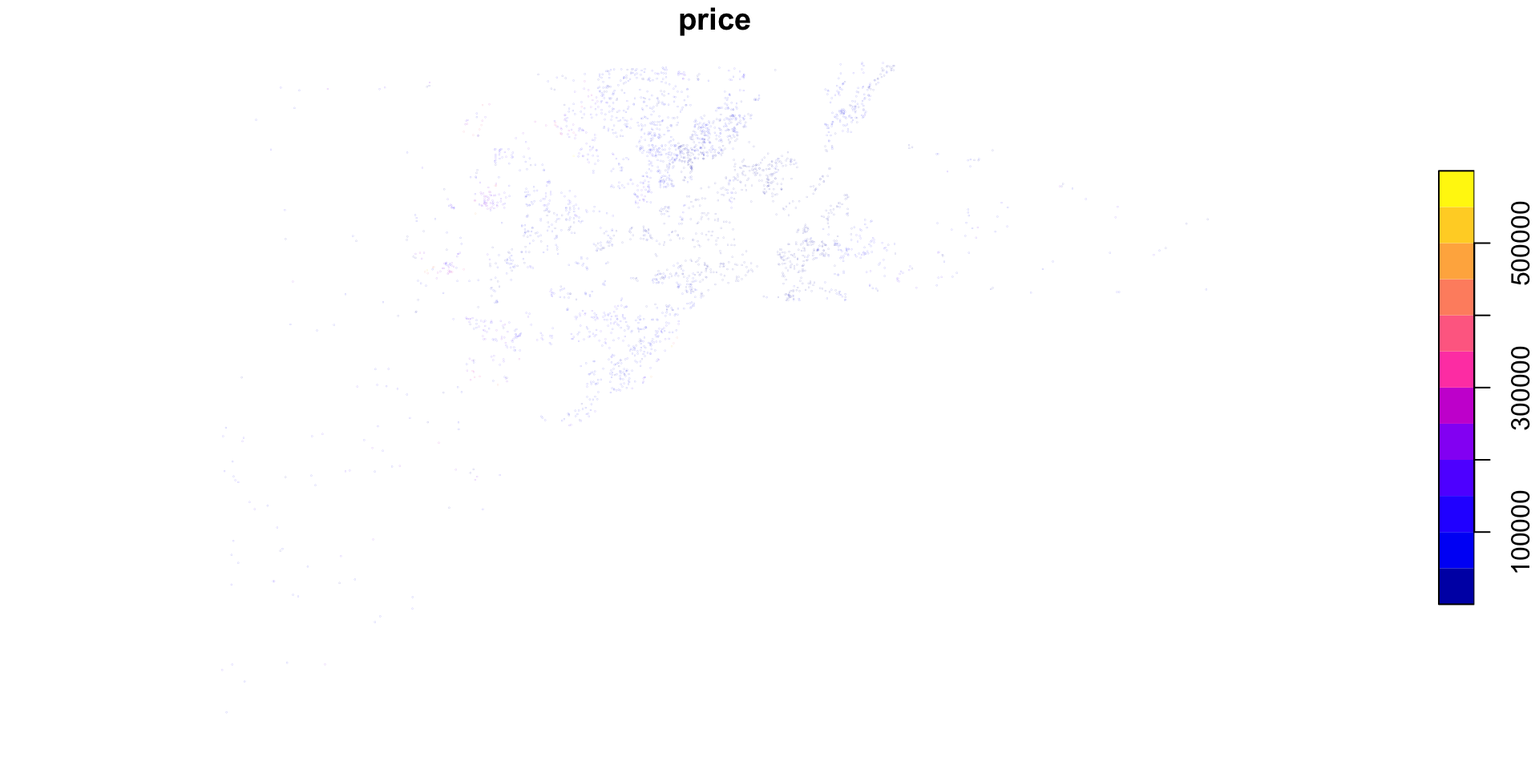
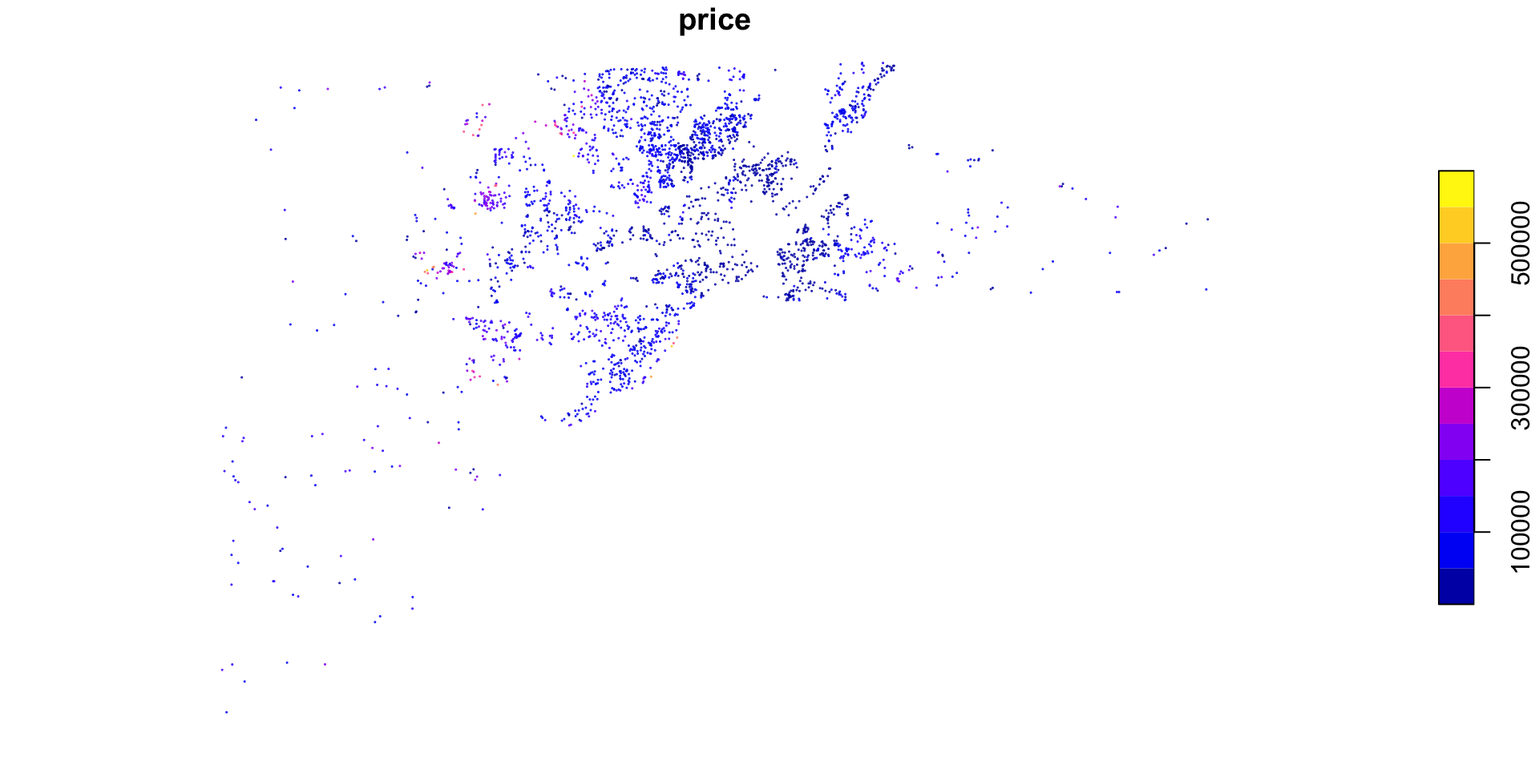
update Lucas county plot

diff --git a/_site/spatmetrics/spatreg/index.html b/_site/spatmetrics/spatreg/index.html
@@ -438,7 +438,10 @@
 </section>
 <section id="read-in-data-via-map." class="slide level2">
 <h2>Read in data via map.</h2>
-<p>This is tha map with data generated under <a href="../data/">Getting Data</a>.</p>
+<ul>
+<li class="fragment">This is the municipalities map with data from SSB generated under <a href="../data/">Getting Data</a>.</li>
+</ul>
+<div class="fragment">
 <div class="cell">
 <details open="">
 <summary>Code</summary>
@@ -459,6 +462,7 @@ Projected CRS: ETRS89 / UTM zone 33N + NN2000 height</code></pre>
 <ul>
 <li class="fragment">Filter out municipalities with no recorded pm2.</li>
 </ul>
+</div>
 <div class="fragment">
 <div class="cell">
 <details open="">
@@ -998,8 +1002,9 @@ SARMA = 53.206, df = 2, p-value = 2.796e-12</code></pre>
 <p>Manski (“includes everything”):</p>
 <p><span class="math display">\[ {\bf y = \rho W y + X \beta +W X\theta + u\quad u = \lambda Wu + \epsilon}\]</span></p>
 </section>
-<section id="lesages-2014-5-principles" class="slide level2">
+<section id="lesages-2014-5-principles" class="slide level2 smaller scrollable">
 <h2>LeSages (2014) 5 principles</h2>
+<div id="refs" class="references csl-bib-body hanging-indent" style=".column-body-outset-left" role="doc-bibliography">
 <ol type="1">
 <li class="fragment"><p>Local versus global spillover</p>
 <ol type="i">
@@ -1013,6 +1018,133 @@ SARMA = 53.206, df = 2, p-value = 2.796e-12</code></pre>
 <li class="fragment"><p>SDM</p></li>
 </ol></li>
 </ol>
+<div id="ref-allaire2022" class="csl-entry" role="doc-biblioentry">
+Allaire, JJ, Yihui Xie, Jonathan McPherson, Javier Luraschi, Kevin Ushey, Aron Atkins, Hadley Wickham, Joe Cheng, Winston Chang, and Richard Iannone. 2022. <em>Rmarkdown: <span>Dynamic</span> Documents for <span>R</span></em>. Manual. <a href="https://github.com/rstudio/rmarkdown">https://github.com/rstudio/rmarkdown</a>.
+</div>
+<div id="ref-bivand" class="csl-entry" role="doc-biblioentry">
+Bivand, Edzer Pebesma, Roger. n.d. <em>Spatial <span>Data Science</span></em>. Accessed May 12, 2021. <a href="https://keen-swartz-3146c4.netlify.app/index.html">https://keen-swartz-3146c4.netlify.app/index.html</a>.
+</div>
+<div id="ref-spdep2022" class="csl-entry" role="doc-biblioentry">
+Bivand, Roger. 2022a. <span>“R Packages for Analyzing Spatial Data: A Comparative Case Study with Areal Data.”</span> <em>Geographical Analysis</em> 54 (3): 488–518. <a href="https://doi.org/10.1111/gean.12319">https://doi.org/10.1111/gean.12319</a>.
+</div>
+<div id="ref-R-spdep" class="csl-entry" role="doc-biblioentry">
+———. 2022b. <em>Spdep: Spatial Dependence: Weighting Schemes, Statistics</em>. <a href="https://CRAN.R-project.org/package=spdep">https://CRAN.R-project.org/package=spdep</a>.
+</div>
+<div id="ref-sp2013" class="csl-entry" role="doc-biblioentry">
+Bivand, Roger S., Edzer Pebesma, and Virgilio Gomez-Rubio. 2013a. <em>Applied Spatial Data Analysis with <span>R</span>, Second Edition</em>. Springer, NY. <a href="https://asdar-book.org/">https://asdar-book.org/</a>.
+</div>
+<div id="ref-spatialreg2013b" class="csl-entry" role="doc-biblioentry">
+———. 2013b. <em>Applied Spatial Data Analysis with <span>R</span>, Second Edition</em>. Springer, NY. <a href="https://asdar-book.org/">https://asdar-book.org/</a>.
+</div>
+<div id="ref-spdep2013" class="csl-entry" role="doc-biblioentry">
+———. 2013c. <em>Applied Spatial Data Analysis with <span>R</span>, Second Edition</em>. Springer, NY. <a href="https://asdar-book.org/">https://asdar-book.org/</a>.
+</div>
+<div id="ref-spatialreg2013a" class="csl-entry" role="doc-biblioentry">
+Bivand, Roger, Jan Hauke, and Tomasz Kossowski. 2013. <span>“Computing the Jacobian in Gaussian Spatial Autoregressive Models: An Illustrated Comparison of Available Methods.”</span> <em>Geographical Analysis</em> 45 (2): 150–79. <a href="https://doi.org/10.1111/gean.12008">https://doi.org/10.1111/gean.12008</a>.
+</div>
+<div id="ref-spatialreg2021a" class="csl-entry" role="doc-biblioentry">
+Bivand, Roger, Giovanni Millo, and Gianfranco Piras. 2021. <span>“A Review of Software for Spatial Econometrics in <span>R</span>.”</span> <em>Mathematics</em> 9 (11). <a href="https://doi.org/10.3390/math9111276">https://doi.org/10.3390/math9111276</a>.
+</div>
+<div id="ref-spatialreg2015a" class="csl-entry" role="doc-biblioentry">
+Bivand, Roger, and Gianfranco Piras. 2015. <span>“Comparing Implementations of Estimation Methods for Spatial Econometrics.”</span> <em>Journal of Statistical Software</em> 63 (18): 1–36. <a href="https://doi.org/10.18637/jss.v063.i18">https://doi.org/10.18637/jss.v063.i18</a>.
+</div>
+<div id="ref-R-spatialreg" class="csl-entry" role="doc-biblioentry">
+———. 2022. <em>Spatialreg: Spatial Regression Analysis</em>. <a href="https://CRAN.R-project.org/package=spatialreg">https://CRAN.R-project.org/package=spatialreg</a>.
+</div>
+<div id="ref-spdep2018" class="csl-entry" role="doc-biblioentry">
+Bivand, Roger, and David W. S. Wong. 2018. <span>“Comparing Implementations of Global and Local Indicators of Spatial Association.”</span> <em>TEST</em> 27 (3): 716–48. <a href="https://doi.org/10.1007/s11749-018-0599-x">https://doi.org/10.1007/s11749-018-0599-x</a>.
+</div>
+<div id="ref-chi2019spatial" class="csl-entry" role="doc-biblioentry">
+Chi, G., and J. Zhu. 2019. <em>Spatial Regression Models for the Social Sciences</em>. Advanced Quantitative Techniques in the Social Sciences. <span>SAGE Publications</span>. <a href="https://books.google.no/books?id=zHGkvwEACAAJ">https://books.google.no/books?id=zHGkvwEACAAJ</a>.
+</div>
+<div id="ref-GSS2022" class="csl-entry" role="doc-biblioentry">
+<span>“Dependency and Reproducibility – <span>GSS</span>.”</span> n.d. Accessed September 12, 2022. <a href="https://gss.civilservice.gov.uk/reproducible-analytical-pipelines/dependency-and-reproducibility/">https://gss.civilservice.gov.uk/reproducible-analytical-pipelines/dependency-and-reproducibility/</a>.
+</div>
+<div id="ref-epskamp2019" class="csl-entry" role="doc-biblioentry">
+Epskamp, Sacha. 2019. <span>“Reproducibility and <span>Replicability</span> in a <span>Fast-Paced Methodological World</span>.”</span> <em>Advances in Methods and Practices in Psychological Science</em> 2 (May): 251524591984742. <a href="https://doi.org/10.1177/2515245919847421">https://doi.org/10.1177/2515245919847421</a>.
+</div>
+<div id="ref-grolemund2017" class="csl-entry" role="doc-biblioentry">
+Grolemund, Garrett, and Hadley Wickham. 2017. <em>R for <span>Data Science</span>: <span>Import</span>, <span>Tidy</span>, <span>Transform</span>, <span>Visualize</span>, and <span>Model Data</span></em>. 1st edition. <span>Sebastopol, CA</span>: <span>O’Reilly Media</span>.
+</div>
+<div id="ref-Grossenbacher2022" class="csl-entry" role="doc-biblioentry">
+Grossenbacher, Timo. n.d. <span>“A (Truly) Reproducible <span>R</span> Workflow.”</span> Accessed September 12, 2022. <a href="https://timogrossenbacher.ch/2017/07/a-truly-reproducible-r-workflow/">https://timogrossenbacher.ch/2017/07/a-truly-reproducible-r-workflow/</a>.
+</div>
+<div id="ref-guidotti2020" class="csl-entry" role="doc-biblioentry">
+Guidotti, Emanuele, and David Ardia. 2020. <span>“<span>COVID-19</span> Data Hub.”</span> <em>Journal of Open Source Software</em> 5 (51): 2376. <a href="https://doi.org/10.21105/joss.02376">https://doi.org/10.21105/joss.02376</a>.
+</div>
+<div id="ref-halleckvega2015" class="csl-entry" role="doc-biblioentry">
+Halleck Vega, Solmaria, and J. Paul Elhorst. 2015. <span>“<span>THE SLX MODEL</span>.”</span> <em>Journal of Regional Science</em> 55 (3): 339–63. <a href="https://doi.org/10.1111/jors.12188">https://doi.org/10.1111/jors.12188</a>.
+</div>
+<div id="ref-R-huxtable" class="csl-entry" role="doc-biblioentry">
+Hugh-Jones, David. 2022. <em>Huxtable: Easily Create and Style Tables for LaTeX, HTML and Other Formats</em>. <a href="https://hughjonesd.github.io/huxtable/">https://hughjonesd.github.io/huxtable/</a>.
+</div>
+<div id="ref-lander2017" class="csl-entry" role="doc-biblioentry">
+Lander, Jared. 2017. <em>R for <span>Everyone</span>: <span>Advanced Analytics</span> and <span>Graphics</span></em>. 2nd edition. <span>Boston</span>: <span>Addison-Wesley Professional</span>.
+</div>
+<div id="ref-R-PxWebApiData" class="csl-entry" role="doc-biblioentry">
+Langsrud, Øyvind, and Jan Bruusgaard. 2021. <em>PxWebApiData: PX-Web Data by API</em>. <a href="https://github.com/statisticsnorway/PxWebApiData">https://github.com/statisticsnorway/PxWebApiData</a>.
+</div>
+<div id="ref-lesage2014" class="csl-entry" role="doc-biblioentry">
+LeSage, James P. 2014. <span>“What <span>Regional Scientists Need</span> to <span>Know About Spatial Econometrics</span>.”</span> SSRN scholarly paper ID 2420725. <span>Rochester, NY</span>: <span>Social Science Research Network</span>. <a href="https://doi.org/10.2139/ssrn.2420725">https://doi.org/10.2139/ssrn.2420725</a>.
+</div>
+<div id="ref-RRT2022" class="csl-entry" role="doc-biblioentry">
+Ooi, Hong, and Vries, Andrie de. n.d. <em>0.1 <span>The Reproducible R Toolkit</span> (<span>RRT</span>)</em>. Accessed September 12, 2022. <a href="https://cran.r-project.org/web/packages/checkpoint/vignettes/checkpoint.html">https://cran.r-project.org/web/packages/checkpoint/vignettes/checkpoint.html</a>.
+</div>
+<div id="ref-osland2010" class="csl-entry" role="doc-biblioentry">
+Osland, Liv. 2010. <span>“An Application of Spatial Econometrics in Relation to Hedonic House Price Modeling.”</span> <em>Journal of Real Estate Research</em> 32 (July): 289–320.
+</div>
+<div id="ref-sf2018" class="csl-entry" role="doc-biblioentry">
+Pebesma, Edzer. 2018. <span>“<span class="nocase">Simple Features for R: Standardized Support for Spatial Vector Data</span>.”</span> <em><span>The R Journal</span></em> 10 (1): 439–46. <a href="https://doi.org/10.32614/RJ-2018-009">https://doi.org/10.32614/RJ-2018-009</a>.
+</div>
+<div id="ref-R-sf" class="csl-entry" role="doc-biblioentry">
+———. 2022. <em>Sf: Simple Features for r</em>. <a href="https://CRAN.R-project.org/package=sf">https://CRAN.R-project.org/package=sf</a>.
+</div>
+<div id="ref-sp2005" class="csl-entry" role="doc-biblioentry">
+Pebesma, Edzer J., and Roger S. Bivand. 2005. <span>“Classes and Methods for Spatial Data in <span>R</span>.”</span> <em>R News</em> 5 (2): 9–13. <a href="https://CRAN.R-project.org/doc/Rnews/">https://CRAN.R-project.org/doc/Rnews/</a>.
+</div>
+<div id="ref-R-sp" class="csl-entry" role="doc-biblioentry">
+Pebesma, Edzer, and Roger Bivand. 2022. <em>Sp: Classes and Methods for Spatial Data</em>. <a href="https://CRAN.R-project.org/package=sp">https://CRAN.R-project.org/package=sp</a>.
+</div>
+<div id="ref-R-broom" class="csl-entry" role="doc-biblioentry">
+Robinson, David, Alex Hayes, and Simon Couch. 2022. <em>Broom: Convert Statistical Objects into Tidy Tibbles</em>. <a href="https://CRAN.R-project.org/package=broom">https://CRAN.R-project.org/package=broom</a>.
+</div>
+<div id="ref-tmap2018" class="csl-entry" role="doc-biblioentry">
+Tennekes, Martijn. 2018. <span>“<span class="nocase">tmap</span>: Thematic Maps in <span>R</span>.”</span> <em>Journal of Statistical Software</em> 84 (6): 1–39. <a href="https://doi.org/10.18637/jss.v084.i06">https://doi.org/10.18637/jss.v084.i06</a>.
+</div>
+<div id="ref-R-tmap" class="csl-entry" role="doc-biblioentry">
+———. 2022. <em>Tmap: Thematic Maps</em>. <a href="https://github.com/r-tmap/tmap">https://github.com/r-tmap/tmap</a>.
+</div>
+<div id="ref-zotero-1344" class="csl-entry" role="doc-biblioentry">
+<span>“Welcome | <span>R</span> for <span>Data Science</span>.”</span> n.d. Accessed July 22, 2022. <a href="https://r4ds.had.co.nz/">https://r4ds.had.co.nz/</a>.
+</div>
+<div id="ref-R-tidyverse" class="csl-entry" role="doc-biblioentry">
+Wickham, Hadley. 2022. <em>Tidyverse: Easily Install and Load the Tidyverse</em>. <a href="https://CRAN.R-project.org/package=tidyverse">https://CRAN.R-project.org/package=tidyverse</a>.
+</div>
+<div id="ref-wickham2019" class="csl-entry" role="doc-biblioentry">
+Wickham, Hadley, Mara Averick, Jennifer Bryan, Winston Chang, Lucy D’Agostino McGowan, Romain François, Garrett Grolemund, et al. 2019b. <span>“Welcome to the <span class="nocase">tidyverse</span>.”</span> <em>Journal of Open Source Software</em> 4 (43): 1686. <a href="https://doi.org/10.21105/joss.01686">https://doi.org/10.21105/joss.01686</a>.
+</div>
+<div id="ref-tidyverse2019" class="csl-entry" role="doc-biblioentry">
+———, et al. 2019a. <span>“Welcome to the <span class="nocase">tidyverse</span>.”</span> <em>Journal of Open Source Software</em> 4 (43): 1686. <a href="https://doi.org/10.21105/joss.01686">https://doi.org/10.21105/joss.01686</a>.
+</div>
+<div id="ref-R-readxl" class="csl-entry" role="doc-biblioentry">
+Wickham, Hadley, and Jennifer Bryan. 2022. <em>Readxl: Read Excel Files</em>. <a href="https://CRAN.R-project.org/package=readxl">https://CRAN.R-project.org/package=readxl</a>.
+</div>
+<div id="ref-xie2014" class="csl-entry" role="doc-biblioentry">
+Xie, Yihui. 2014. <span>“Knitr: <span>A</span> Comprehensive Tool for Reproducible Research in <span>R</span>.”</span> In <em>Implementing Reproducible Computational Research</em>, edited by Victoria Stodden, Friedrich Leisch, and Roger D. Peng. <span>Chapman and Hall/CRC</span>. <a href="http://www.crcpress.com/product/isbn/9781466561595">http://www.crcpress.com/product/isbn/9781466561595</a>.
+</div>
+<div id="ref-xie2015" class="csl-entry" role="doc-biblioentry">
+———. 2015. <em>Dynamic Documents with <span>R</span> and Knitr</em>. 2nd ed. <span>Boca Raton, Florida</span>: <span>Chapman and Hall/CRC</span>. <a href="https://yihui.org/knitr/">https://yihui.org/knitr/</a>.
+</div>
+<div id="ref-xie2022" class="csl-entry" role="doc-biblioentry">
+———. 2022. <em>Knitr: <span>A</span> General-Purpose Package for Dynamic Report Generation in <span>R</span></em>. Manual. <a href="https://yihui.org/knitr/">https://yihui.org/knitr/</a>.
+</div>
+<div id="ref-xie2018" class="csl-entry" role="doc-biblioentry">
+Xie, Yihui, J. J. Allaire, and Garrett Grolemund. 2018. <em>R Markdown: <span>The</span> Definitive Guide</em>. <span>Boca Raton, Florida</span>: <span>Chapman and Hall/CRC</span>. <a href="https://bookdown.org/yihui/rmarkdown">https://bookdown.org/yihui/rmarkdown</a>.
+</div>
+<div id="ref-xie2020" class="csl-entry" role="doc-biblioentry">
+Xie, Yihui, Christophe Dervieux, and Emily Riederer. 2020. <em>R Markdown Cookbook</em>. <span>Boca Raton, Florida</span>: <span>Chapman and Hall/CRC</span>. <a href="https://bookdown.org/yihui/rmarkdown-cookbook">https://bookdown.org/yihui/rmarkdown-cookbook</a>.
+</div>
+</div>
 </section>
 <section id="lesages-2014-5-principles-1" class="slide level2">
 <h2>LeSages (2014) 5 principles</h2>
@@ -2789,139 +2921,11 @@ Log likelihood of SEM_mod4      Log likelihood of lm4
 </details>
 </div>
 </section>
-<section id="bibliography" class="slide level2 smaller scrollable">
+<section id="bibliography" class="slide level2">
 <h2>Bibliography</h2>
 
 <div class="footer footer-default">
 <p><a href="../../index.html">MSB205</a></p>
-</div>
-<div id="refs" class="references csl-bib-body hanging-indent" role="doc-bibliography">
-<div id="ref-allaire2022" class="csl-entry" role="doc-biblioentry">
-Allaire, JJ, Yihui Xie, Jonathan McPherson, Javier Luraschi, Kevin Ushey, Aron Atkins, Hadley Wickham, Joe Cheng, Winston Chang, and Richard Iannone. 2022. <em>Rmarkdown: <span>Dynamic</span> Documents for <span>R</span></em>. Manual. <a href="https://github.com/rstudio/rmarkdown">https://github.com/rstudio/rmarkdown</a>.
-</div>
-<div id="ref-bivand" class="csl-entry" role="doc-biblioentry">
-Bivand, Edzer Pebesma, Roger. n.d. <em>Spatial <span>Data Science</span></em>. Accessed May 12, 2021. <a href="https://keen-swartz-3146c4.netlify.app/index.html">https://keen-swartz-3146c4.netlify.app/index.html</a>.
-</div>
-<div id="ref-spdep2022" class="csl-entry" role="doc-biblioentry">
-Bivand, Roger. 2022a. <span>“R Packages for Analyzing Spatial Data: A Comparative Case Study with Areal Data.”</span> <em>Geographical Analysis</em> 54 (3): 488–518. <a href="https://doi.org/10.1111/gean.12319">https://doi.org/10.1111/gean.12319</a>.
-</div>
-<div id="ref-R-spdep" class="csl-entry" role="doc-biblioentry">
-———. 2022b. <em>Spdep: Spatial Dependence: Weighting Schemes, Statistics</em>. <a href="https://CRAN.R-project.org/package=spdep">https://CRAN.R-project.org/package=spdep</a>.
-</div>
-<div id="ref-sp2013" class="csl-entry" role="doc-biblioentry">
-Bivand, Roger S., Edzer Pebesma, and Virgilio Gomez-Rubio. 2013a. <em>Applied Spatial Data Analysis with <span>R</span>, Second Edition</em>. Springer, NY. <a href="https://asdar-book.org/">https://asdar-book.org/</a>.
-</div>
-<div id="ref-spatialreg2013b" class="csl-entry" role="doc-biblioentry">
-———. 2013b. <em>Applied Spatial Data Analysis with <span>R</span>, Second Edition</em>. Springer, NY. <a href="https://asdar-book.org/">https://asdar-book.org/</a>.
-</div>
-<div id="ref-spdep2013" class="csl-entry" role="doc-biblioentry">
-———. 2013c. <em>Applied Spatial Data Analysis with <span>R</span>, Second Edition</em>. Springer, NY. <a href="https://asdar-book.org/">https://asdar-book.org/</a>.
-</div>
-<div id="ref-spatialreg2013a" class="csl-entry" role="doc-biblioentry">
-Bivand, Roger, Jan Hauke, and Tomasz Kossowski. 2013. <span>“Computing the Jacobian in Gaussian Spatial Autoregressive Models: An Illustrated Comparison of Available Methods.”</span> <em>Geographical Analysis</em> 45 (2): 150–79. <a href="https://doi.org/10.1111/gean.12008">https://doi.org/10.1111/gean.12008</a>.
-</div>
-<div id="ref-spatialreg2021a" class="csl-entry" role="doc-biblioentry">
-Bivand, Roger, Giovanni Millo, and Gianfranco Piras. 2021. <span>“A Review of Software for Spatial Econometrics in <span>R</span>.”</span> <em>Mathematics</em> 9 (11). <a href="https://doi.org/10.3390/math9111276">https://doi.org/10.3390/math9111276</a>.
-</div>
-<div id="ref-spatialreg2015a" class="csl-entry" role="doc-biblioentry">
-Bivand, Roger, and Gianfranco Piras. 2015. <span>“Comparing Implementations of Estimation Methods for Spatial Econometrics.”</span> <em>Journal of Statistical Software</em> 63 (18): 1–36. <a href="https://doi.org/10.18637/jss.v063.i18">https://doi.org/10.18637/jss.v063.i18</a>.
-</div>
-<div id="ref-R-spatialreg" class="csl-entry" role="doc-biblioentry">
-———. 2022. <em>Spatialreg: Spatial Regression Analysis</em>. <a href="https://CRAN.R-project.org/package=spatialreg">https://CRAN.R-project.org/package=spatialreg</a>.
-</div>
-<div id="ref-spdep2018" class="csl-entry" role="doc-biblioentry">
-Bivand, Roger, and David W. S. Wong. 2018. <span>“Comparing Implementations of Global and Local Indicators of Spatial Association.”</span> <em>TEST</em> 27 (3): 716–48. <a href="https://doi.org/10.1007/s11749-018-0599-x">https://doi.org/10.1007/s11749-018-0599-x</a>.
-</div>
-<div id="ref-chi2019spatial" class="csl-entry" role="doc-biblioentry">
-Chi, G., and J. Zhu. 2019. <em>Spatial Regression Models for the Social Sciences</em>. Advanced Quantitative Techniques in the Social Sciences. <span>SAGE Publications</span>. <a href="https://books.google.no/books?id=zHGkvwEACAAJ">https://books.google.no/books?id=zHGkvwEACAAJ</a>.
-</div>
-<div id="ref-GSS2022" class="csl-entry" role="doc-biblioentry">
-<span>“Dependency and Reproducibility – <span>GSS</span>.”</span> n.d. Accessed September 12, 2022. <a href="https://gss.civilservice.gov.uk/reproducible-analytical-pipelines/dependency-and-reproducibility/">https://gss.civilservice.gov.uk/reproducible-analytical-pipelines/dependency-and-reproducibility/</a>.
-</div>
-<div id="ref-epskamp2019" class="csl-entry" role="doc-biblioentry">
-Epskamp, Sacha. 2019. <span>“Reproducibility and <span>Replicability</span> in a <span>Fast-Paced Methodological World</span>.”</span> <em>Advances in Methods and Practices in Psychological Science</em> 2 (May): 251524591984742. <a href="https://doi.org/10.1177/2515245919847421">https://doi.org/10.1177/2515245919847421</a>.
-</div>
-<div id="ref-grolemund2017" class="csl-entry" role="doc-biblioentry">
-Grolemund, Garrett, and Hadley Wickham. 2017. <em>R for <span>Data Science</span>: <span>Import</span>, <span>Tidy</span>, <span>Transform</span>, <span>Visualize</span>, and <span>Model Data</span></em>. 1st edition. <span>Sebastopol, CA</span>: <span>O’Reilly Media</span>.
-</div>
-<div id="ref-Grossenbacher2022" class="csl-entry" role="doc-biblioentry">
-Grossenbacher, Timo. n.d. <span>“A (Truly) Reproducible <span>R</span> Workflow.”</span> Accessed September 12, 2022. <a href="https://timogrossenbacher.ch/2017/07/a-truly-reproducible-r-workflow/">https://timogrossenbacher.ch/2017/07/a-truly-reproducible-r-workflow/</a>.
-</div>
-<div id="ref-guidotti2020" class="csl-entry" role="doc-biblioentry">
-Guidotti, Emanuele, and David Ardia. 2020. <span>“<span>COVID-19</span> Data Hub.”</span> <em>Journal of Open Source Software</em> 5 (51): 2376. <a href="https://doi.org/10.21105/joss.02376">https://doi.org/10.21105/joss.02376</a>.
-</div>
-<div id="ref-halleckvega2015" class="csl-entry" role="doc-biblioentry">
-Halleck Vega, Solmaria, and J. Paul Elhorst. 2015. <span>“<span>THE SLX MODEL</span>.”</span> <em>Journal of Regional Science</em> 55 (3): 339–63. <a href="https://doi.org/10.1111/jors.12188">https://doi.org/10.1111/jors.12188</a>.
-</div>
-<div id="ref-R-huxtable" class="csl-entry" role="doc-biblioentry">
-Hugh-Jones, David. 2022. <em>Huxtable: Easily Create and Style Tables for LaTeX, HTML and Other Formats</em>. <a href="https://hughjonesd.github.io/huxtable/">https://hughjonesd.github.io/huxtable/</a>.
-</div>
-<div id="ref-lander2017" class="csl-entry" role="doc-biblioentry">
-Lander, Jared. 2017. <em>R for <span>Everyone</span>: <span>Advanced Analytics</span> and <span>Graphics</span></em>. 2nd edition. <span>Boston</span>: <span>Addison-Wesley Professional</span>.
-</div>
-<div id="ref-R-PxWebApiData" class="csl-entry" role="doc-biblioentry">
-Langsrud, Øyvind, and Jan Bruusgaard. 2021. <em>PxWebApiData: PX-Web Data by API</em>. <a href="https://github.com/statisticsnorway/PxWebApiData">https://github.com/statisticsnorway/PxWebApiData</a>.
-</div>
-<div id="ref-lesage2014" class="csl-entry" role="doc-biblioentry">
-LeSage, James P. 2014. <span>“What <span>Regional Scientists Need</span> to <span>Know About Spatial Econometrics</span>.”</span> SSRN scholarly paper ID 2420725. <span>Rochester, NY</span>: <span>Social Science Research Network</span>. <a href="https://doi.org/10.2139/ssrn.2420725">https://doi.org/10.2139/ssrn.2420725</a>.
-</div>
-<div id="ref-RRT2022" class="csl-entry" role="doc-biblioentry">
-Ooi, Hong, and Vries, Andrie de. n.d. <em>0.1 <span>The Reproducible R Toolkit</span> (<span>RRT</span>)</em>. Accessed September 12, 2022. <a href="https://cran.r-project.org/web/packages/checkpoint/vignettes/checkpoint.html">https://cran.r-project.org/web/packages/checkpoint/vignettes/checkpoint.html</a>.
-</div>
-<div id="ref-osland2010" class="csl-entry" role="doc-biblioentry">
-Osland, Liv. 2010. <span>“An Application of Spatial Econometrics in Relation to Hedonic House Price Modeling.”</span> <em>Journal of Real Estate Research</em> 32 (July): 289–320.
-</div>
-<div id="ref-sf2018" class="csl-entry" role="doc-biblioentry">
-Pebesma, Edzer. 2018. <span>“<span class="nocase">Simple Features for R: Standardized Support for Spatial Vector Data</span>.”</span> <em><span>The R Journal</span></em> 10 (1): 439–46. <a href="https://doi.org/10.32614/RJ-2018-009">https://doi.org/10.32614/RJ-2018-009</a>.
-</div>
-<div id="ref-R-sf" class="csl-entry" role="doc-biblioentry">
-———. 2022. <em>Sf: Simple Features for r</em>. <a href="https://CRAN.R-project.org/package=sf">https://CRAN.R-project.org/package=sf</a>.
-</div>
-<div id="ref-sp2005" class="csl-entry" role="doc-biblioentry">
-Pebesma, Edzer J., and Roger S. Bivand. 2005. <span>“Classes and Methods for Spatial Data in <span>R</span>.”</span> <em>R News</em> 5 (2): 9–13. <a href="https://CRAN.R-project.org/doc/Rnews/">https://CRAN.R-project.org/doc/Rnews/</a>.
-</div>
-<div id="ref-R-sp" class="csl-entry" role="doc-biblioentry">
-Pebesma, Edzer, and Roger Bivand. 2022. <em>Sp: Classes and Methods for Spatial Data</em>. <a href="https://CRAN.R-project.org/package=sp">https://CRAN.R-project.org/package=sp</a>.
-</div>
-<div id="ref-R-broom" class="csl-entry" role="doc-biblioentry">
-Robinson, David, Alex Hayes, and Simon Couch. 2022. <em>Broom: Convert Statistical Objects into Tidy Tibbles</em>. <a href="https://CRAN.R-project.org/package=broom">https://CRAN.R-project.org/package=broom</a>.
-</div>
-<div id="ref-tmap2018" class="csl-entry" role="doc-biblioentry">
-Tennekes, Martijn. 2018. <span>“<span class="nocase">tmap</span>: Thematic Maps in <span>R</span>.”</span> <em>Journal of Statistical Software</em> 84 (6): 1–39. <a href="https://doi.org/10.18637/jss.v084.i06">https://doi.org/10.18637/jss.v084.i06</a>.
-</div>
-<div id="ref-R-tmap" class="csl-entry" role="doc-biblioentry">
-———. 2022. <em>Tmap: Thematic Maps</em>. <a href="https://github.com/r-tmap/tmap">https://github.com/r-tmap/tmap</a>.
-</div>
-<div id="ref-zotero-1344" class="csl-entry" role="doc-biblioentry">
-<span>“Welcome | <span>R</span> for <span>Data Science</span>.”</span> n.d. Accessed July 22, 2022. <a href="https://r4ds.had.co.nz/">https://r4ds.had.co.nz/</a>.
-</div>
-<div id="ref-R-tidyverse" class="csl-entry" role="doc-biblioentry">
-Wickham, Hadley. 2022. <em>Tidyverse: Easily Install and Load the Tidyverse</em>. <a href="https://CRAN.R-project.org/package=tidyverse">https://CRAN.R-project.org/package=tidyverse</a>.
-</div>
-<div id="ref-wickham2019" class="csl-entry" role="doc-biblioentry">
-Wickham, Hadley, Mara Averick, Jennifer Bryan, Winston Chang, Lucy D’Agostino McGowan, Romain François, Garrett Grolemund, et al. 2019b. <span>“Welcome to the <span class="nocase">tidyverse</span>.”</span> <em>Journal of Open Source Software</em> 4 (43): 1686. <a href="https://doi.org/10.21105/joss.01686">https://doi.org/10.21105/joss.01686</a>.
-</div>
-<div id="ref-tidyverse2019" class="csl-entry" role="doc-biblioentry">
-———, et al. 2019a. <span>“Welcome to the <span class="nocase">tidyverse</span>.”</span> <em>Journal of Open Source Software</em> 4 (43): 1686. <a href="https://doi.org/10.21105/joss.01686">https://doi.org/10.21105/joss.01686</a>.
-</div>
-<div id="ref-R-readxl" class="csl-entry" role="doc-biblioentry">
-Wickham, Hadley, and Jennifer Bryan. 2022. <em>Readxl: Read Excel Files</em>. <a href="https://CRAN.R-project.org/package=readxl">https://CRAN.R-project.org/package=readxl</a>.
-</div>
-<div id="ref-xie2014" class="csl-entry" role="doc-biblioentry">
-Xie, Yihui. 2014. <span>“Knitr: <span>A</span> Comprehensive Tool for Reproducible Research in <span>R</span>.”</span> In <em>Implementing Reproducible Computational Research</em>, edited by Victoria Stodden, Friedrich Leisch, and Roger D. Peng. <span>Chapman and Hall/CRC</span>. <a href="http://www.crcpress.com/product/isbn/9781466561595">http://www.crcpress.com/product/isbn/9781466561595</a>.
-</div>
-<div id="ref-xie2015" class="csl-entry" role="doc-biblioentry">
-———. 2015. <em>Dynamic Documents with <span>R</span> and Knitr</em>. 2nd ed. <span>Boca Raton, Florida</span>: <span>Chapman and Hall/CRC</span>. <a href="https://yihui.org/knitr/">https://yihui.org/knitr/</a>.
-</div>
-<div id="ref-xie2022" class="csl-entry" role="doc-biblioentry">
-———. 2022. <em>Knitr: <span>A</span> General-Purpose Package for Dynamic Report Generation in <span>R</span></em>. Manual. <a href="https://yihui.org/knitr/">https://yihui.org/knitr/</a>.
-</div>
-<div id="ref-xie2018" class="csl-entry" role="doc-biblioentry">
-Xie, Yihui, J. J. Allaire, and Garrett Grolemund. 2018. <em>R Markdown: <span>The</span> Definitive Guide</em>. <span>Boca Raton, Florida</span>: <span>Chapman and Hall/CRC</span>. <a href="https://bookdown.org/yihui/rmarkdown">https://bookdown.org/yihui/rmarkdown</a>.
-</div>
-<div id="ref-xie2020" class="csl-entry" role="doc-biblioentry">
-Xie, Yihui, Christophe Dervieux, and Emily Riederer. 2020. <em>R Markdown Cookbook</em>. <span>Boca Raton, Florida</span>: <span>Chapman and Hall/CRC</span>. <a href="https://bookdown.org/yihui/rmarkdown-cookbook">https://bookdown.org/yihui/rmarkdown-cookbook</a>.
-</div>
 </div>
 </section></section>
     </div>

diff --git a/_site/spatmetrics/LucasCounty/index.html b/_site/spatmetrics/LucasCounty/index.html
@@ -460,10 +460,10 @@
 </section>
 <section id="quick-check-of-data" class="slide level2">
 <h2>Quick check of data</h2>
-<div class="cell" data-hash="index_cache/revealjs/unnamed-chunk-5_b277b09c346c1e3a05923b17ef285cb9">
+<div class="cell" data-hash="index_cache/revealjs/unnamed-chunk-5_19e8769a24806519781e935df3b6f17d">
 <details open="">
 <summary>Code</summary>
-<div class="sourceCode cell-code" id="cb4"><pre class="sourceCode numberSource r number-lines code-with-copy"><code class="sourceCode r"><span id="cb4-1"><a href="#cb4-1"></a><span class="fu">plot</span>(red_house_sf[<span class="st">"price"</span>], <span class="at">cex =</span> <span class="fl">0.01</span>, <span class="at">pch =</span> <span class="dv">20</span>)</span></code><button title="Copy to Clipboard" class="code-copy-button"><i class="bi"></i></button></pre></div>
+<div class="sourceCode cell-code" id="cb4"><pre class="sourceCode numberSource r number-lines code-with-copy"><code class="sourceCode r"><span id="cb4-1"><a href="#cb4-1"></a><span class="fu">plot</span>(red_house_sf[<span class="st">"price"</span>], <span class="at">cex =</span> <span class="fl">0.1</span>, <span class="at">pch =</span> <span class="dv">20</span>)</span></code><button title="Copy to Clipboard" class="code-copy-button"><i class="bi"></i></button></pre></div>
 </details>
 
 </div>
